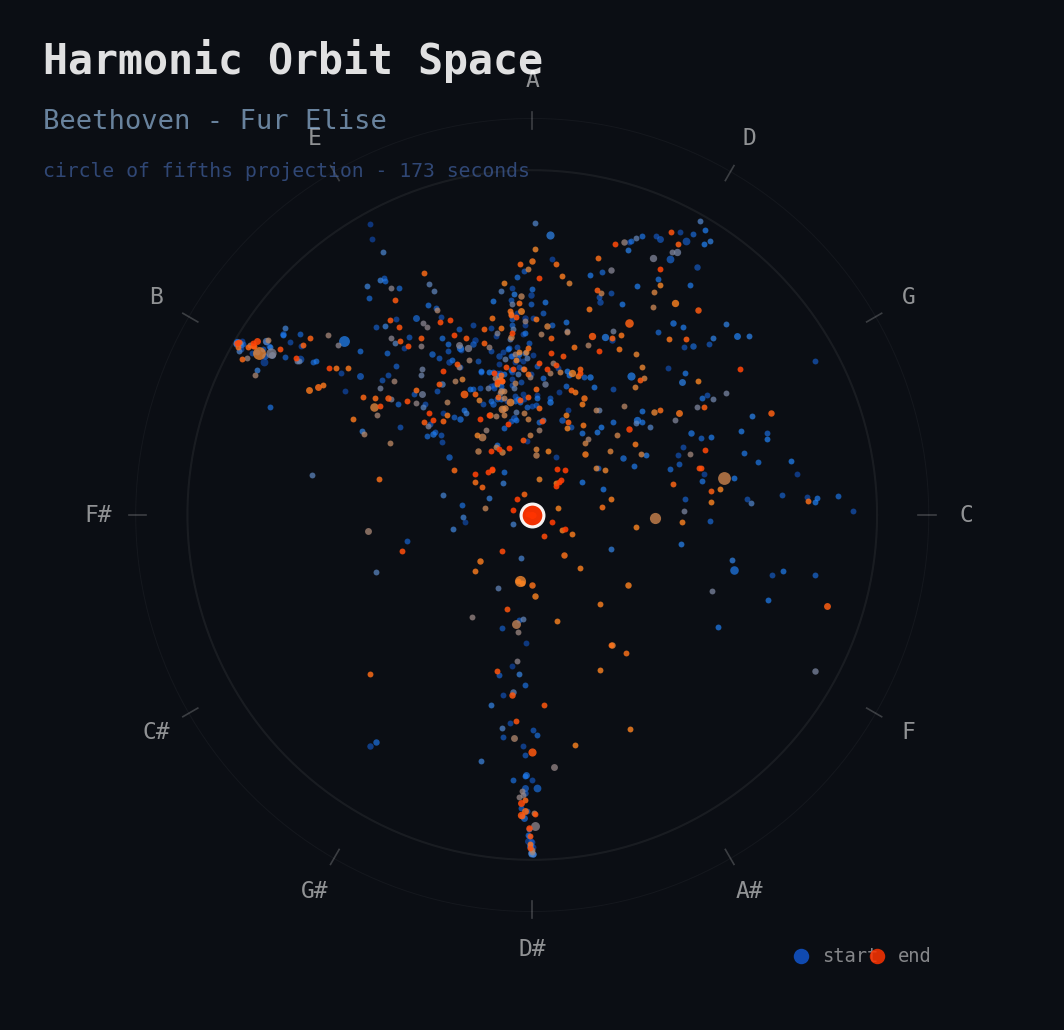
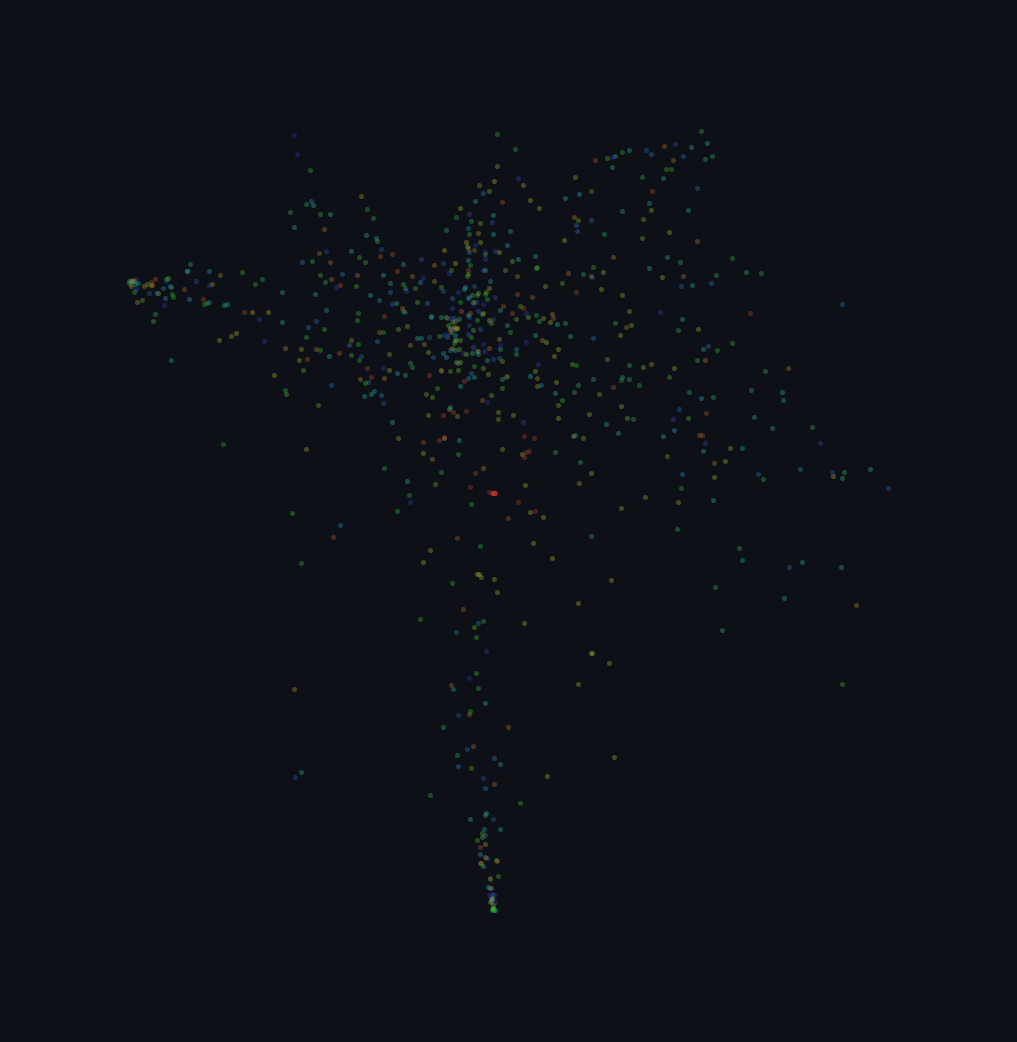
Use static cloud thumbnail on index, hide hero on post page
Add hideHero frontmatter flag so heroImage shows on the blog index
card but not on the post itself (where the interactive animation
is already at the top). Regenerate thumbnail to match viewer's
static cloud preview.

diff --git a/src/content.config.ts b/src/content.config.ts
@@ -13,6 +13,7 @@ const blog = defineCollection({
 			pubDate: z.coerce.date(),
 			updatedDate: z.coerce.date().optional(),
 			heroImage: image().optional(),
+			hideHero: z.boolean().optional(),
 		}),
 });
 

diff --git a/src/content/blog/harmonic-orbit-space/generate_thumbnail.py b/src/content/blog/harmonic-orbit-space/generate_thumbnail.py
@@ -1,9 +1,8 @@
 """
-Generates thumbnail for the Harmonic Orbit Space blog post.
+Generates thumbnail matching the viewer's static cloud preview.
 
-Shows the orbit trail for Fur Elise plotted on the circle of fifths,
-colored blue->red by time. Dark background, same style as the other
-blog post thumbnails.
+Dark #0d1117 background, all orbit points shown faintly with
+blue->purple time coloring — exactly what you see before pressing Play.
 
 Usage:
     python src/content/blog/harmonic-orbit-space/generate_thumbnail.py
@@ -11,25 +10,25 @@ Usage:
 
 import json
 import math
+import colorsys
 import numpy as np
 import matplotlib.pyplot as plt
-from matplotlib.colors import LinearSegmentedColormap
 from pathlib import Path
 
 HERE = Path(__file__).parent
 DATA_PATH = HERE / "orbit-data.json"
 OUT_PATH  = HERE / "thumbnail.png"
 
-# ── Load data ─────────────────────────────────────────────────────────────────
+BG = "#0d1117"
+
 with open(DATA_PATH) as f:
     all_songs = json.load(f)
 
 song = next(s for s in all_songs if s["id"] == "fur-elise")
-dur  = song["duration"]
+dur = song["duration"]
 
-# ── Compute orbit coordinates from pc arrays (circle of fifths) ──────────────
+
 def pc_to_orbit(pc):
-    """Project 12-element chroma vector onto circle of fifths."""
     x, y, w = 0.0, 0.0, 0.0
     for i in range(12):
         v = pc[i] if pc[i] else 0
@@ -41,114 +40,41 @@ def pc_to_orbit(pc):
         return None, None
     return x / w, y / w
 
+
 pts = []
 for p in song["points"]:
     ox, oy = pc_to_orbit(p["pc"])
     if ox is not None:
-        pts.append((p["t"], ox, oy, p.get("os", 0)))
+        pts.append((p["t"], ox, oy))
 
-# ── Circle of fifths layout ───────────────────────────────────────────────────
-NOTE_NAMES = ["C", "G", "D", "A", "E", "B", "F#", "C#", "G#", "D#", "A#", "F"]
-COF_ANGLES = [(i / 12) * 2 * math.pi for i in range(12)]
+xs = [p[1] for p in pts]
+ys = [p[2] for p in pts]
 
-# ── Figure setup ──────────────────────────────────────────────────────────────
-fig, ax = plt.subplots(figsize=(12, 6.75), facecolor="#0b0e14")
-ax.set_facecolor("#0b0e14")
+# ── Figure: match viewer proportions (wider than tall) ────────────────────────
+fig, ax = plt.subplots(figsize=(12, 6.75), facecolor=BG)
+ax.set_facecolor(BG)
 ax.set_aspect("equal")
 ax.axis("off")
 
-# ── Reference ring ────────────────────────────────────────────────────────────
-ring_theta = np.linspace(0, 2 * math.pi, 200)
-ax.plot(
-    np.cos(ring_theta) * 1.0,
-    np.sin(ring_theta) * 1.0,
-    color="white", alpha=0.06, linewidth=1.0, zorder=1
-)
-ax.plot(
-    np.cos(ring_theta) * 1.15,
-    np.sin(ring_theta) * 1.15,
-    color="white", alpha=0.04, linewidth=0.5, zorder=1
-)
+# ── Static cloud matching the viewer's showStaticCloud() ──────────────────────
+# Viewer JS: hsla((1-tn)*240, 60%, 45%, 1) at opacity 0.35, size 5
+# CSS hue: 240=blue, 0=red. colorsys uses 0-1 range where 0=red, 0.667=blue
+for t, x, y in pts:
+    tn = t / dur if dur > 0 else 0
+    css_hue_deg = (1 - tn) * 240  # 240 (blue) -> 0 (red)
+    # Convert CSS hue (0=red, 240=blue) to colorsys hue (0=red, 0.667=blue)
+    py_hue = css_hue_deg / 360.0
+    r, g, b = colorsys.hls_to_rgb(py_hue, 0.45, 0.6)
+    ax.scatter(x, y, c=[(r, g, b)], s=6, alpha=0.35, linewidths=0, zorder=2)
 
-# ── Note labels ───────────────────────────────────────────────────────────────
-LABEL_R = 1.26
-for i, name in enumerate(NOTE_NAMES):
-    angle = COF_ANGLES[i]
-    lx = math.cos(angle) * LABEL_R
-    ly = math.sin(angle) * LABEL_R
-    ax.text(
-        lx, ly, name,
-        ha="center", va="center",
-        fontsize=11, color="white", alpha=0.55,
-        fontfamily="monospace",
-        zorder=2
-    )
-    tx1 = math.cos(angle) * 1.12
-    ty1 = math.sin(angle) * 1.12
-    tx2 = math.cos(angle) * 1.17
-    ty2 = math.sin(angle) * 1.17
-    ax.plot([tx1, tx2], [ty1, ty2], color="white", alpha=0.20, linewidth=0.8, zorder=2)
+# ── Tight padding around the cloud ───────────────────────────────────────────
+xmn, xmx = min(xs), max(xs)
+ymn, ymx = min(ys), max(ys)
+xpad = (xmx - xmn) * 0.15
+ypad = (ymx - ymn) * 0.15
+ax.set_xlim(xmn - xpad, xmx + xpad)
+ax.set_ylim(ymn - ypad, ymx + ypad)
 
-# ── Orbit trail ───────────────────────────────────────────────────────────────
-cmap = LinearSegmentedColormap.from_list(
-    "orbit",
-    [(0.0, "#1155cc"), (0.4, "#2288ff"), (0.7, "#ff8822"), (1.0, "#ff3300")]
-)
-
-max_os = max(p[3] for p in pts) if pts else 1
-
-for t, x, y, os in pts:
-    frac = t / dur
-    color = cmap(frac)
-    sz = 8 + min(os / max_os * 40, 30)
-    alpha = 0.55 + frac * 0.35
-    ax.scatter(x, y, c=[color], s=sz, alpha=alpha, zorder=3, linewidths=0)
-
-# Highlight the last point
-if pts:
-    _, lx, ly, _ = pts[-1]
-    ax.scatter(lx, ly, c=["#ff3300"], s=120, alpha=0.95, zorder=5, linewidths=1.5,
-               edgecolors="white")
-
-# Origin reference
-ax.scatter(0, 0, c="white", s=8, alpha=0.15, zorder=2, linewidths=0)
-
-# ── Title / annotation ────────────────────────────────────────────────────────
-ax.text(
-    -1.42, 1.28,
-    "Harmonic Orbit Space",
-    fontsize=20, color="white", alpha=0.88,
-    fontfamily="monospace", fontweight="bold",
-    zorder=6
-)
-ax.text(
-    -1.42, 1.12,
-    "Beethoven - Fur Elise",
-    fontsize=13, color="#88aacc", alpha=0.75,
-    fontfamily="monospace",
-    zorder=6
-)
-ax.text(
-    -1.42, 0.98,
-    f"circle of fifths projection - {dur:.0f} seconds",
-    fontsize=9.5, color="#4466aa", alpha=0.65,
-    fontfamily="monospace",
-    zorder=6
-)
-
-# Color bar legend
-legend_x = 0.78
-for i, (lbl, col) in enumerate([("start", "#1155cc"), ("end", "#ff3300")]):
-    ax.scatter([legend_x + i * 0.22], [-1.28], c=[col], s=55, zorder=6,
-               linewidths=0, alpha=0.85)
-    ax.text(legend_x + i * 0.22 + 0.06, -1.28, lbl,
-            va="center", fontsize=9, color="white", alpha=0.50,
-            fontfamily="monospace", zorder=6)
-
-# ── Axis limits ───────────────────────────────────────────────────────────────
-ax.set_xlim(-1.5, 1.5)
-ax.set_ylim(-1.45, 1.45)
-
-plt.tight_layout(pad=0.3)
-plt.savefig(OUT_PATH, dpi=150, bbox_inches="tight", facecolor="#0b0e14")
+plt.tight_layout(pad=0)
+plt.savefig(OUT_PATH, dpi=150, bbox_inches="tight", facecolor=BG, pad_inches=0.1)
 print(f"Thumbnail saved -> {OUT_PATH}")
